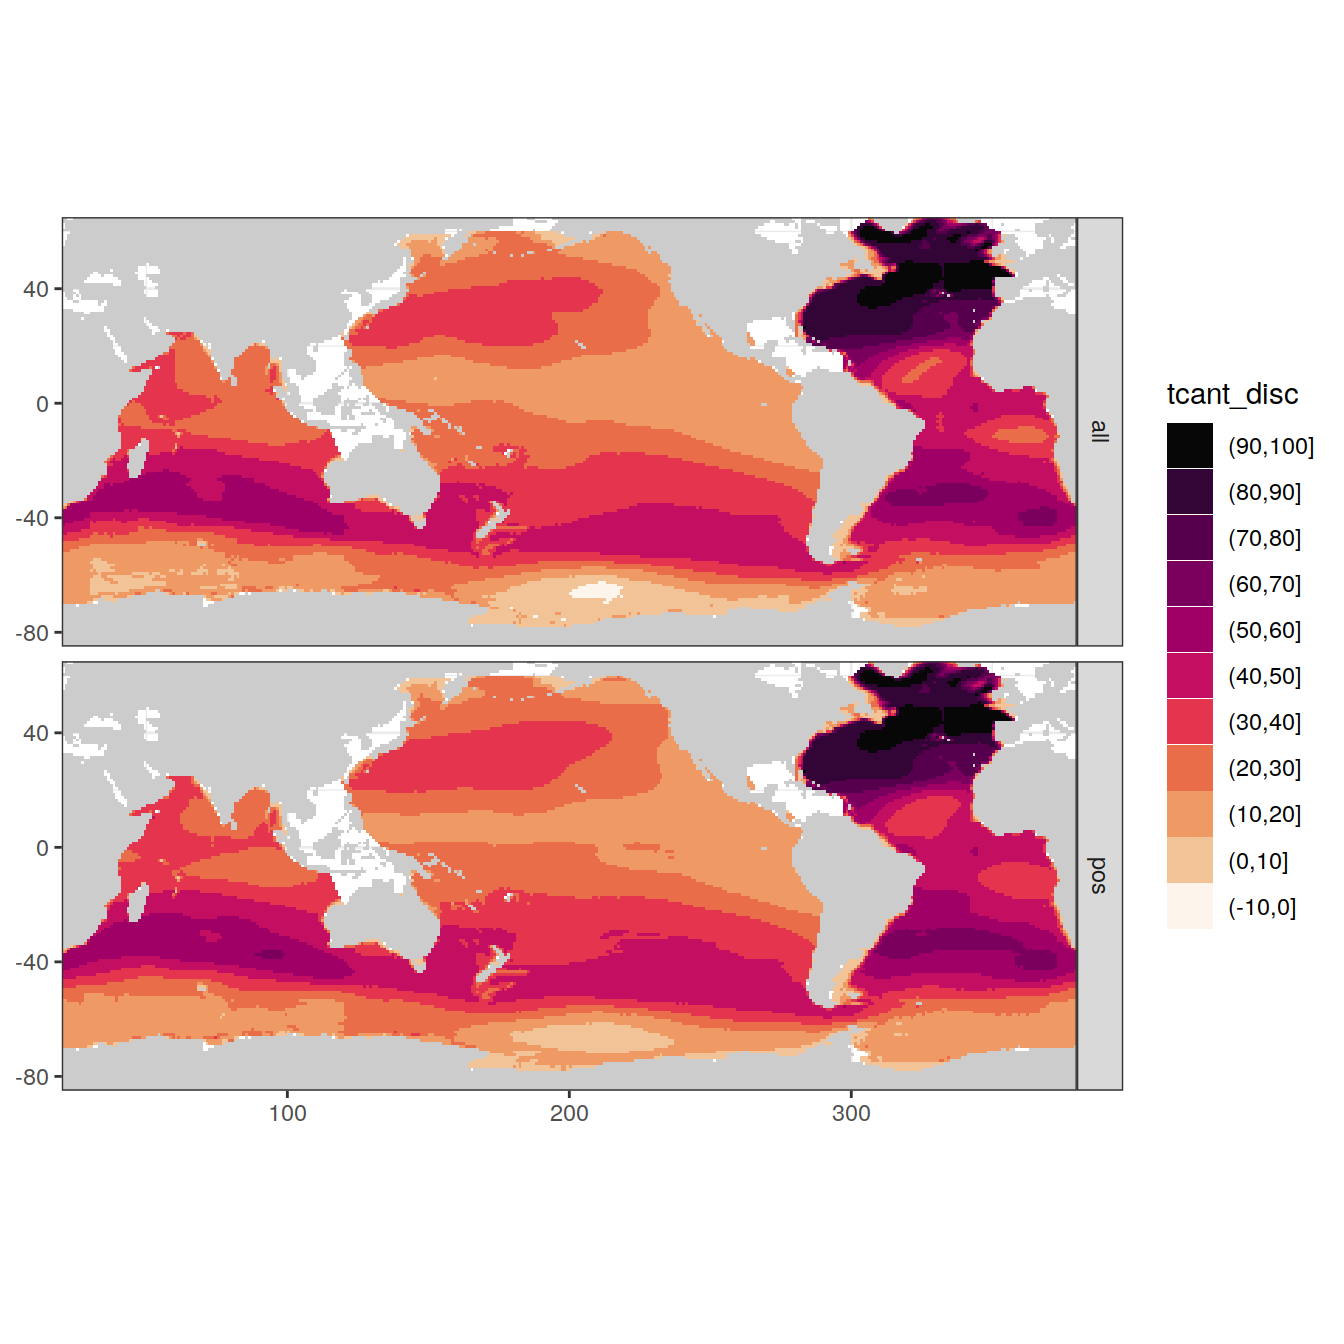
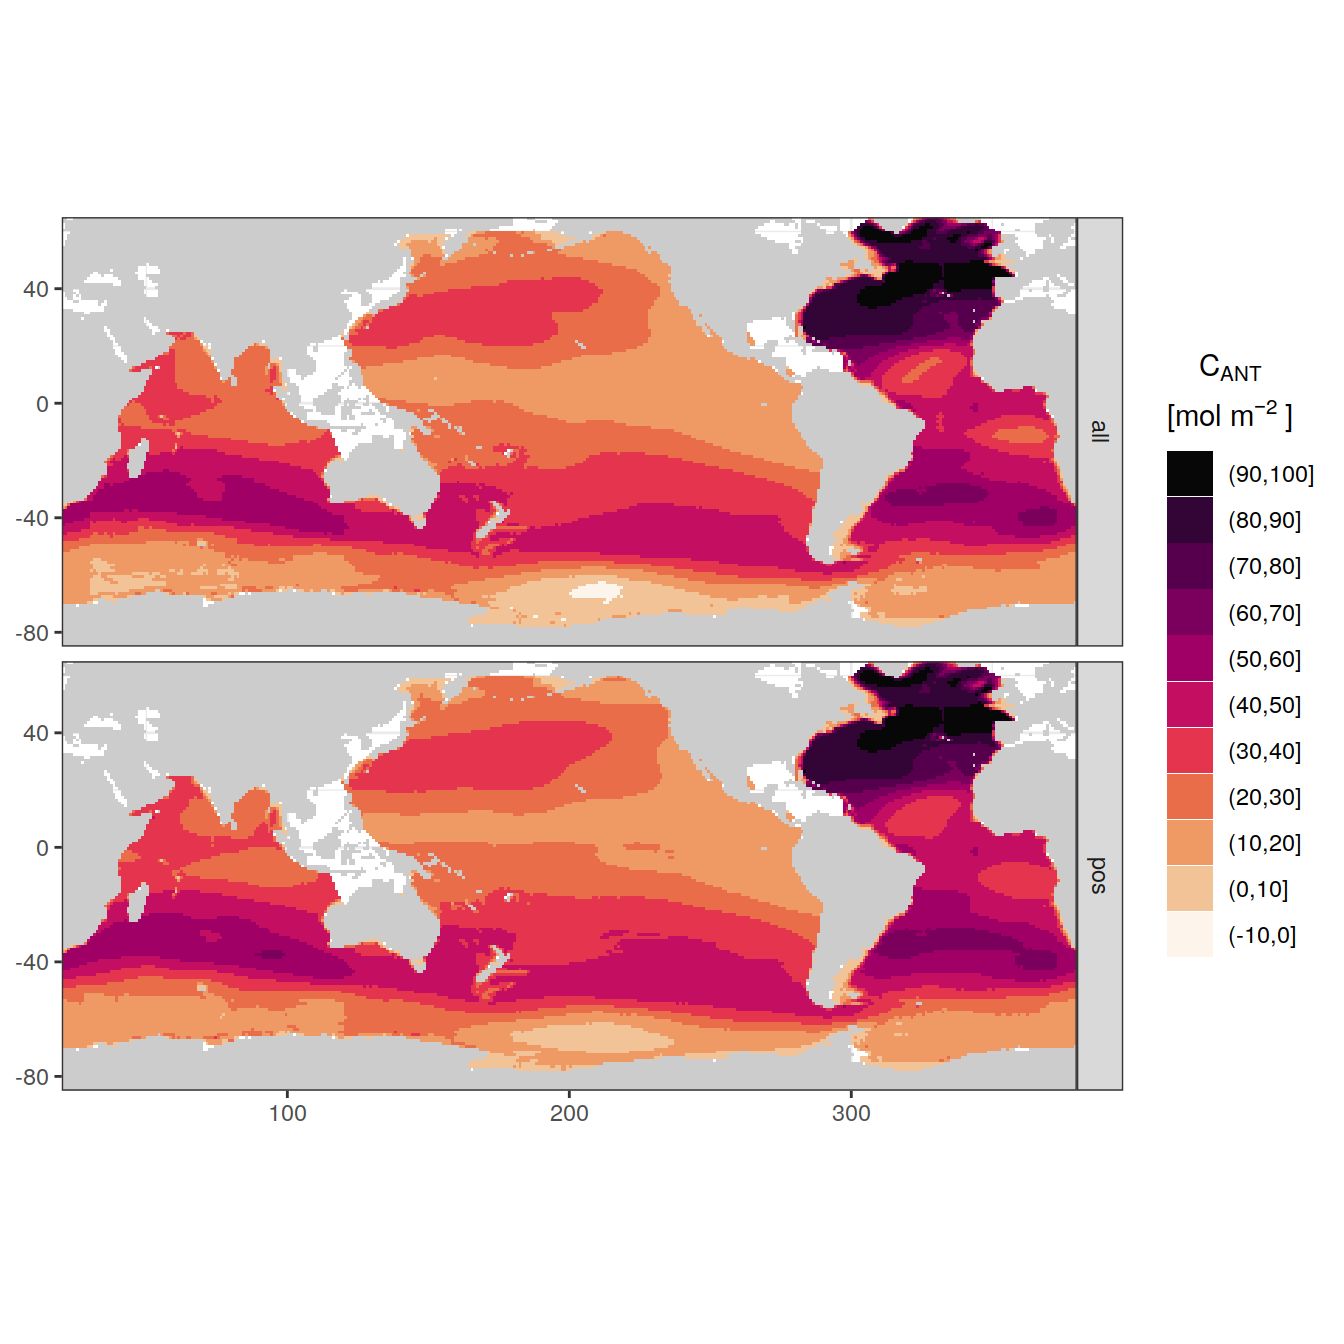
Build site.

Changed region(s): [[0.8438, 0.25, 0.9688, 0.7188]]

diff --git a/docs/interior_storage.html b/docs/interior_storage.html
@@ -494,16 +494,16 @@ This reproducible <a href="https://rmarkdown.rstudio.com">R Markdown</a> analysi
 <div class="panel panel-default">
 <div class="panel-heading">
 <p class="panel-title">
-<a data-toggle="collapse" data-parent="#workflowr-checks" href="#strongRepositoryversionstrongahrefhttpsgithubcomjensdanielmuelleroceancarbonsinkreviewtree19cc76cd9bf56b27aa3e87438f5561cee29bc325targetblank19cc76ca"> <span class="glyphicon glyphicon-ok text-success" aria-hidden="true"></span> <strong>Repository version:</strong> <a href="https://github.com/jens-daniel-mueller/ocean_carbon_sink_review/tree/19cc76cd9bf56b27aa3e87438f5561cee29bc325" target="_blank">19cc76c</a> </a>
+<a data-toggle="collapse" data-parent="#workflowr-checks" href="#strongRepositoryversionstrongahrefhttpsgithubcomjensdanielmuelleroceancarbonsinkreviewtree23e4cfcf73f0e41d026c8e9615bf2444899739f4targetblank23e4cfca"> <span class="glyphicon glyphicon-ok text-success" aria-hidden="true"></span> <strong>Repository version:</strong> <a href="https://github.com/jens-daniel-mueller/ocean_carbon_sink_review/tree/23e4cfcf73f0e41d026c8e9615bf2444899739f4" target="_blank">23e4cfc</a> </a>
 </p>
 </div>
[2 lines of base64/hex data omitted]
 <div class="panel-body">
 <p>
 Great! You are using Git for version control. Tracking code development and connecting the code version to the results is critical for reproducibility.
 </p>
 <p>
-The results in this page were generated with repository version <a href="https://github.com/jens-daniel-mueller/ocean_carbon_sink_review/tree/19cc76cd9bf56b27aa3e87438f5561cee29bc325" target="_blank">19cc76c</a>. See the <em>Past versions</em> tab to see a history of the changes made to the R Markdown and HTML files.
+The results in this page were generated with repository version <a href="https://github.com/jens-daniel-mueller/ocean_carbon_sink_review/tree/23e4cfcf73f0e41d026c8e9615bf2444899739f4" target="_blank">23e4cfc</a>. See the <em>Past versions</em> tab to see a history of the changes made to the R Markdown and HTML files.
 </p>
 <p>
 Note that you need to be careful to ensure that all relevant files for the analysis have been committed to Git prior to generating the results (you can use <code>wflow_publish</code> or <code>wflow_git_commit</code>). workflowr only checks the R Markdown file, but you know if there are other scripts or data files that it depends on. Below is the status of the Git repository when the results were generated:
@@ -553,6 +553,40 @@ Message
 </tr>
 </thead>
 <tbody>
+<tr>
+<td>
+Rmd
+</td>
+<td>
+<a href="https://github.com/jens-daniel-mueller/ocean_carbon_sink_review/blob/23e4cfcf73f0e41d026c8e9615bf2444899739f4/analysis/interior_storage.Rmd" target="_blank">23e4cfc</a>
+</td>
+<td>
+jens-daniel-mueller
+</td>
+<td>
+2022-04-14
+</td>
+<td>
+legend title
+</td>
+</tr>
+<tr>
+<td>
+html
+</td>
+<td>
+<a href="https://rawcdn.githack.com/jens-daniel-mueller/ocean_carbon_sink_review/b1454bef4f2688c3a2f0afaa5e97ad45af2ae6ea/docs/interior_storage.html" target="_blank">b1454be</a>
+</td>
+<td>
+jens-daniel-mueller
+</td>
+<td>
+2022-04-14
+</td>
+<td>
+Build site.
+</td>
+</tr>
 <tr>
 <td>
 Rmd
@@ -1049,14 +1083,18 @@ tcant_2007 &lt;- tcant_2007 %&gt;%
                names_prefix = &quot;tcant_&quot;) %&gt;% 
   mutate(tcant_disc = cut(tcant, seq(-100,200,10)),
          tcant_disc = fct_rev(tcant_disc))</code></pre>
-<pre class="r"><code>map +
+<pre class="r"><code>cant_label &lt;- expression(atop(C[&quot;ANT&quot;],
+                                &quot;[mol&quot; ~ m ^ { -2 }~&quot;]&quot;))
+
+map +
   # geom_tile(data = tcant_2007 %&gt;% filter(data_missing != &quot;available&quot;),
   #           aes(lon, lat, fill = data_missing)) +
   # scale_fill_brewer(palette = &quot;Set3&quot;, direction = -1) +
   # new_scale(&quot;fill&quot;)+
   geom_tile(data = tcant_2007 %&gt;% filter(!is.na(tcant)),
             aes(lon, lat, fill = tcant)) +
-  scale_fill_continuous_sequential(&quot;rocket&quot;) +
+  scale_fill_continuous_sequential(&quot;rocket&quot;,
+                                   name = cant_label) +
   facet_grid(estimate ~ .)</code></pre>
 <p><img src="figure/interior_storage.Rmd/plot_maps-1.png" width="672" style="display: block; margin: auto;" /></p>
 <p>
@@ -1081,6 +1119,17 @@ Date
 </tr>
 </thead>
 <tbody>
+<tr>
+<td>
+<a href="https://github.com/jens-daniel-mueller/ocean_carbon_sink_review/blob/b1454bef4f2688c3a2f0afaa5e97ad45af2ae6ea/docs/figure/interior_storage.Rmd/plot_maps-1.png" target="_blank">b1454be</a>
+</td>
+<td>
+jens-daniel-mueller
+</td>
+<td>
+2022-04-14
+</td>
+</tr>
 <tr>
 <td>
 <a href="https://github.com/jens-daniel-mueller/ocean_carbon_sink_review/blob/6fcb06ad6cffd91fb31e917e61814caad5597e6d/docs/figure/interior_storage.Rmd/plot_maps-1.png" target="_blank">6fcb06a</a>
@@ -1111,7 +1160,8 @@ jens-daniel-mueller
   geom_tile(
     data = tcant_2007 %&gt;% filter(!is.na(tcant)),
     aes(lon, lat, fill=tcant_disc)) +
-  scale_fill_discrete_sequential(&quot;rocket&quot;, rev = FALSE) +
+  scale_fill_discrete_sequential(&quot;rocket&quot;, rev = FALSE,
+                                   name = cant_label) +
   facet_grid(estimate ~ .)</code></pre>
 <p><img src="figure/interior_storage.Rmd/plot_maps-2.png" width="672" style="display: block; margin: auto;" /></p>
 <p>
@@ -1136,6 +1186,17 @@ Date
 </tr>
 </thead>
 <tbody>
+<tr>
+<td>
+<a href="https://github.com/jens-daniel-mueller/ocean_carbon_sink_review/blob/b1454bef4f2688c3a2f0afaa5e97ad45af2ae6ea/docs/figure/interior_storage.Rmd/plot_maps-2.png" target="_blank">b1454be</a>
+</td>
+<td>
+jens-daniel-mueller
+</td>
+<td>
+2022-04-14
+</td>
+</tr>
 <tr>
 <td>
 <a href="https://github.com/jens-daniel-mueller/ocean_carbon_sink_review/blob/6fcb06ad6cffd91fb31e917e61814caad5597e6d/docs/figure/interior_storage.Rmd/plot_maps-2.png" target="_blank">6fcb06a</a>
@@ -1194,6 +1255,17 @@ Date
 </tr>
 </thead>
 <tbody>
+<tr>
+<td>
+<a href="https://github.com/jens-daniel-mueller/ocean_carbon_sink_review/blob/b1454bef4f2688c3a2f0afaa5e97ad45af2ae6ea/docs/figure/interior_storage.Rmd/plot_maps-3.png" target="_blank">b1454be</a>
+</td>
+<td>
+jens-daniel-mueller
+</td>
+<td>
+2022-04-14
+</td>
+</tr>
 <tr>
 <td>
 <a href="https://github.com/jens-daniel-mueller/ocean_carbon_sink_review/blob/6fcb06ad6cffd91fb31e917e61814caad5597e6d/docs/figure/interior_storage.Rmd/plot_maps-3.png" target="_blank">6fcb06a</a>
@@ -1278,6 +1350,17 @@ Date
 <tbody>
 <tr>
 <td>
+<a href="https://github.com/jens-daniel-mueller/ocean_carbon_sink_review/blob/b1454bef4f2688c3a2f0afaa5e97ad45af2ae6ea/docs/figure/interior_storage.Rmd/prepare_GCB-1.png" target="_blank">b1454be</a>
+</td>
+<td>
+jens-daniel-mueller
+</td>
+<td>
+2022-04-14
+</td>
+</tr>
+<tr>
+<td>
 <a href="https://github.com/jens-daniel-mueller/ocean_carbon_sink_review/blob/6fcb06ad6cffd91fb31e917e61814caad5597e6d/docs/figure/interior_storage.Rmd/prepare_GCB-1.png" target="_blank">6fcb06a</a>
 </td>
 <td>
@@ -1332,6 +1415,17 @@ Date
 </tr>
 </thead>
 <tbody>
+<tr>
+<td>
+<a href="https://github.com/jens-daniel-mueller/ocean_carbon_sink_review/blob/b1454bef4f2688c3a2f0afaa5e97ad45af2ae6ea/docs/figure/interior_storage.Rmd/prepare_GCB-2.png" target="_blank">b1454be</a>
+</td>
+<td>
+jens-daniel-mueller
+</td>
+<td>
+2022-04-14
+</td>
+</tr>
 <tr>
 <td>
 <a href="https://github.com/jens-daniel-mueller/ocean_carbon_sink_review/blob/6fcb06ad6cffd91fb31e917e61814caad5597e6d/docs/figure/interior_storage.Rmd/prepare_GCB-2.png" target="_blank">6fcb06a</a>
@@ -1412,6 +1506,17 @@ Date
 <tbody>
 <tr>
 <td>
+<a href="https://github.com/jens-daniel-mueller/ocean_carbon_sink_review/blob/b1454bef4f2688c3a2f0afaa5e97ad45af2ae6ea/docs/figure/interior_storage.Rmd/prepare_GCB-3.png" target="_blank">b1454be</a>
+</td>
+<td>
+jens-daniel-mueller
+</td>
+<td>
+2022-04-14
+</td>
+</tr>
+<tr>
+<td>
 <a href="https://github.com/jens-daniel-mueller/ocean_carbon_sink_review/blob/6fcb06ad6cffd91fb31e917e61814caad5597e6d/docs/figure/interior_storage.Rmd/prepare_GCB-3.png" target="_blank">6fcb06a</a>
 </td>
 <td>
@@ -1471,6 +1576,17 @@ Date
 </tr>
 </thead>
 <tbody>
+<tr>
+<td>
+<a href="https://github.com/jens-daniel-mueller/ocean_carbon_sink_review/blob/b1454bef4f2688c3a2f0afaa5e97ad45af2ae6ea/docs/figure/interior_storage.Rmd/prepare_GCB-4.png" target="_blank">b1454be</a>
+</td>
+<td>
+jens-daniel-mueller
+</td>
+<td>
+2022-04-14
+</td>
+</tr>
 <tr>
 <td>
 <a href="https://github.com/jens-daniel-mueller/ocean_carbon_sink_review/blob/6fcb06ad6cffd91fb31e917e61814caad5597e6d/docs/figure/interior_storage.Rmd/prepare_GCB-4.png" target="_blank">6fcb06a</a>
@@ -1559,6 +1675,17 @@ Date
 </tr>
 </thead>
 <tbody>
+<tr>
+<td>
+<a href="https://github.com/jens-daniel-mueller/ocean_carbon_sink_review/blob/b1454bef4f2688c3a2f0afaa5e97ad45af2ae6ea/docs/figure/interior_storage.Rmd/time_series-1.png" target="_blank">b1454be</a>
+</td>
+<td>
+jens-daniel-mueller
+</td>
+<td>
+2022-04-14
+</td>
+</tr>
 <tr>
 <td>
 <a href="https://github.com/jens-daniel-mueller/ocean_carbon_sink_review/blob/6fcb06ad6cffd91fb31e917e61814caad5597e6d/docs/figure/interior_storage.Rmd/time_series-1.png" target="_blank">6fcb06a</a>
@@ -1667,6 +1794,17 @@ Date
 <tbody>
 <tr>
 <td>
+<a href="https://github.com/jens-daniel-mueller/ocean_carbon_sink_review/blob/b1454bef4f2688c3a2f0afaa5e97ad45af2ae6ea/docs/figure/interior_storage.Rmd/time_series-2.png" target="_blank">b1454be</a>
+</td>
+<td>
+jens-daniel-mueller
+</td>
+<td>
+2022-04-14
+</td>
+</tr>
+<tr>
+<td>
 <a href="https://github.com/jens-daniel-mueller/ocean_carbon_sink_review/blob/6fcb06ad6cffd91fb31e917e61814caad5597e6d/docs/figure/interior_storage.Rmd/time_series-2.png" target="_blank">6fcb06a</a>
 </td>
 <td>
@@ -1729,6 +1867,17 @@ Date
 <tbody>
 <tr>
 <td>
+<a href="https://github.com/jens-daniel-mueller/ocean_carbon_sink_review/blob/b1454bef4f2688c3a2f0afaa5e97ad45af2ae6ea/docs/figure/interior_storage.Rmd/time_series-3.png" target="_blank">b1454be</a>
+</td>
+<td>
+jens-daniel-mueller
+</td>
+<td>
+2022-04-14
+</td>
+</tr>
+<tr>
+<td>
 <a href="https://github.com/jens-daniel-mueller/ocean_carbon_sink_review/blob/6fcb06ad6cffd91fb31e917e61814caad5597e6d/docs/figure/interior_storage.Rmd/time_series-3.png" target="_blank">6fcb06a</a>
 </td>
 <td>
@@ -1789,6 +1938,17 @@ Date
 </tr>
 </thead>
 <tbody>
+<tr>
+<td>
+<a href="https://github.com/jens-daniel-mueller/ocean_carbon_sink_review/blob/b1454bef4f2688c3a2f0afaa5e97ad45af2ae6ea/docs/figure/interior_storage.Rmd/time_series-4.png" target="_blank">b1454be</a>
+</td>
+<td>
+jens-daniel-mueller
+</td>
+<td>
+2022-04-14
+</td>
+</tr>
 <tr>
 <td>
 <a href="https://github.com/jens-daniel-mueller/ocean_carbon_sink_review/blob/6fcb06ad6cffd91fb31e917e61814caad5597e6d/docs/figure/interior_storage.Rmd/time_series-4.png" target="_blank">6fcb06a</a>
@@ -1907,6 +2067,17 @@ Date
 <tbody>
 <tr>
 <td>
+<a href="https://github.com/jens-daniel-mueller/ocean_carbon_sink_review/blob/b1454bef4f2688c3a2f0afaa5e97ad45af2ae6ea/docs/figure/interior_storage.Rmd/khatiwala_vs_models-1.png" target="_blank">b1454be</a>
+</td>
+<td>
+jens-daniel-mueller
+</td>
+<td>
+2022-04-14
+</td>
+</tr>
+<tr>
+<td>
 <a href="https://github.com/jens-daniel-mueller/ocean_carbon_sink_review/blob/6fcb06ad6cffd91fb31e917e61814caad5597e6d/docs/figure/interior_storage.Rmd/khatiwala_vs_models-1.png" target="_blank">6fcb06a</a>
 </td>
 <td>
@@ -1990,6 +2161,17 @@ Date
 </tr>
 </thead>
 <tbody>
+<tr>
+<td>
+<a href="https://github.com/jens-daniel-mueller/ocean_carbon_sink_review/blob/b1454bef4f2688c3a2f0afaa5e97ad45af2ae6ea/docs/figure/interior_storage.Rmd/time_series_delta-1.png" target="_blank">b1454be</a>
+</td>
+<td>
+jens-daniel-mueller
+</td>
+<td>
+2022-04-14
+</td>
+</tr>
 <tr>
 <td>
 <a href="https://github.com/jens-daniel-mueller/ocean_carbon_sink_review/blob/6fcb06ad6cffd91fb31e917e61814caad5597e6d/docs/figure/interior_storage.Rmd/time_series_delta-1.png" target="_blank">6fcb06a</a>
@@ -2087,6 +2269,17 @@ Date
 <tbody>
 <tr>
 <td>
+<a href="https://github.com/jens-daniel-mueller/ocean_carbon_sink_review/blob/b1454bef4f2688c3a2f0afaa5e97ad45af2ae6ea/docs/figure/interior_storage.Rmd/time_series_delta-2.png" target="_blank">b1454be</a>
+</td>
+<td>
+jens-daniel-mueller
+</td>
+<td>
+2022-04-14
+</td>
+</tr>
+<tr>
+<td>
 <a href="https://github.com/jens-daniel-mueller/ocean_carbon_sink_review/blob/6fcb06ad6cffd91fb31e917e61814caad5597e6d/docs/figure/interior_storage.Rmd/time_series_delta-2.png" target="_blank">6fcb06a</a>
 </td>
 <td>
@@ -2149,6 +2342,17 @@ Date
 <tbody>
 <tr>
 <td>
+<a href="https://github.com/jens-daniel-mueller/ocean_carbon_sink_review/blob/b1454bef4f2688c3a2f0afaa5e97ad45af2ae6ea/docs/figure/interior_storage.Rmd/time_series_delta-3.png" target="_blank">b1454be</a>
+</td>
+<td>
+jens-daniel-mueller
+</td>
+<td>
+2022-04-14
+</td>
+</tr>
+<tr>
+<td>
 <a href="https://github.com/jens-daniel-mueller/ocean_carbon_sink_review/blob/6fcb06ad6cffd91fb31e917e61814caad5597e6d/docs/figure/interior_storage.Rmd/time_series_delta-3.png" target="_blank">6fcb06a</a>
 </td>
 <td>
@@ -2209,6 +2413,17 @@ Date
 </tr>
 </thead>
 <tbody>
+<tr>
+<td>
+<a href="https://github.com/jens-daniel-mueller/ocean_carbon_sink_review/blob/b1454bef4f2688c3a2f0afaa5e97ad45af2ae6ea/docs/figure/interior_storage.Rmd/time_series_delta-4.png" target="_blank">b1454be</a>
+</td>
+<td>
+jens-daniel-mueller
+</td>
+<td>
+2022-04-14
+</td>
+</tr>
 <tr>
 <td>
 <a href="https://github.com/jens-daniel-mueller/ocean_carbon_sink_review/blob/6fcb06ad6cffd91fb31e917e61814caad5597e6d/docs/figure/interior_storage.Rmd/time_series_delta-4.png" target="_blank">6fcb06a</a>
